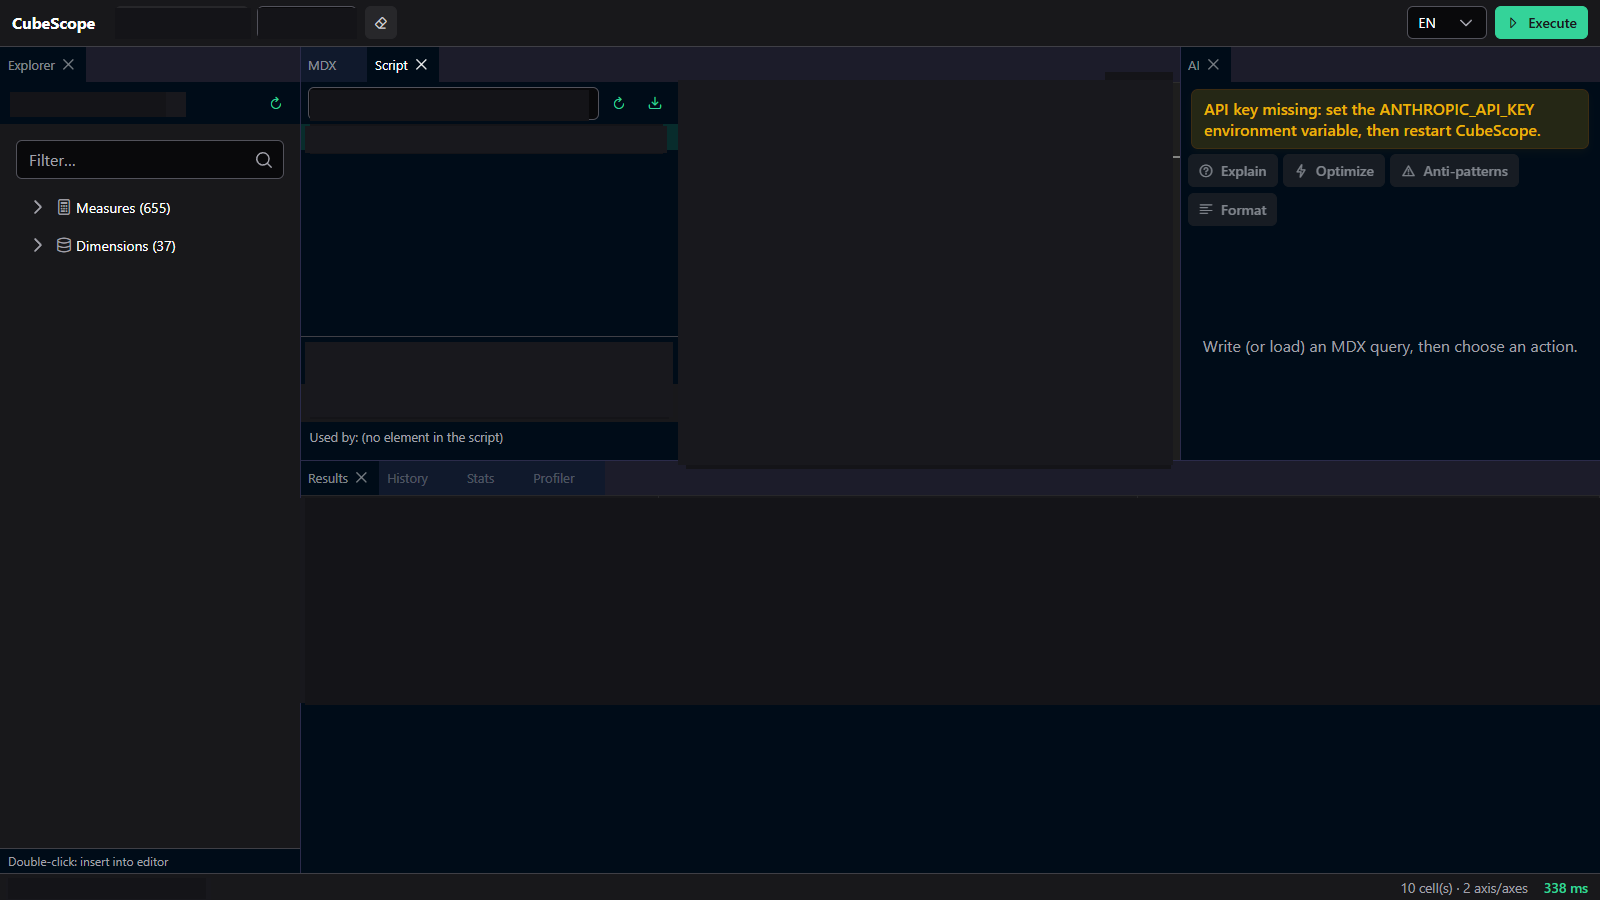
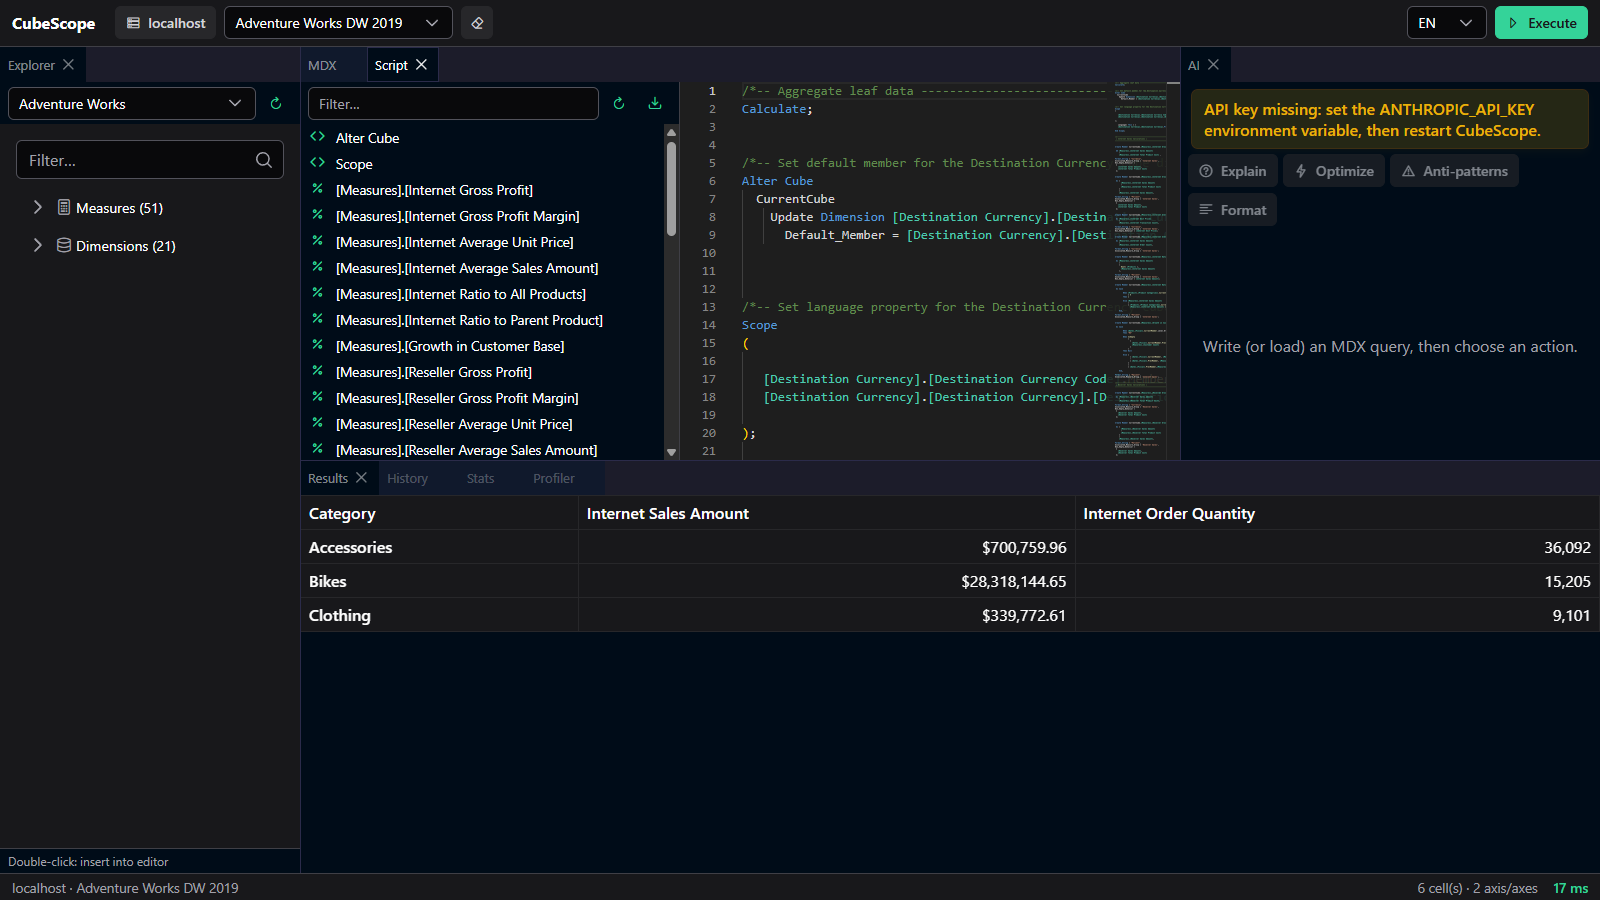
feat: cube captions follow the UI language + clean demo GIF & screenshots
- Connection sends the UI locale (Locale Identifier): FR UI -> French cube
  captions, EN UI -> English, when the cube has translations. Errors and
  perfmon labels still follow the server OS locale.
- README: animated demo GIF (Adventure Works, neutral public sample) as hero.
- Replace the placeholder-redacted screenshots with clean Adventure Works
  captures; drop the connect-dialog shot.

diff --git a/CubeScope.Web/src/api.ts b/CubeScope.Web/src/api.ts
@@ -1,5 +1,5 @@
 // Client API CubeScope — miroir des DTO du serveur (System.Text.Json → camelCase).
-import { t } from './i18n'
+import { t, currentLocale } from './i18n'
 
 export interface GridColumn {
   field: string
@@ -78,7 +78,7 @@ async function request<T>(method: string, url: string, body?: unknown, signal?: 
 
 export const api = {
   connect: (server: string) =>
-    request<{ server: string; catalogs: string[] }>('POST', '/api/connection', { server }),
+    request<{ server: string; catalogs: string[] }>('POST', '/api/connection', { server, lang: currentLocale() }),
   setCatalog: (catalog: string) => request<void>('PUT', '/api/connection/catalog', { catalog }),
   recent: () => request<RecentConnection[]>('GET', '/api/connection/recent'),
   query: (mdx: string, signal: AbortSignal) => request<QueryResult>('POST', '/api/query', { mdx }, signal),

diff --git a/CubeScope.Web/src/i18n.ts b/CubeScope.Web/src/i18n.ts
@@ -1,6 +1,8 @@
 // i18n (vue-i18n) — FR par défaut (usage quotidien de l'auteur), EN pour la communauté.
-// Choix persisté en localStorage. Ce qui vient du serveur SSAS (erreurs, libellés perfmon)
-// reste dans la langue de l'OS serveur (français) — hors de notre contrôle.
+// Choix persisté en localStorage. La langue est aussi envoyée au connect (Locale Identifier)
+// → les libellés du cube (mesures, membres) reviennent dans cette langue s'il a des
+// traductions. Restent dans la langue de l'OS serveur (hors contrôle) : erreurs SSAS et
+// libellés perfmon. Changer de langue APRÈS connexion ne re-traduit pas le cube (reconnecter).
 import { createI18n } from 'vue-i18n'
 import fr from './locales/fr'
 import en from './locales/en'

diff --git a/CubeScope.Core/Ssas/SsasSession.cs b/CubeScope.Core/Ssas/SsasSession.cs
@@ -19,8 +19,17 @@ public sealed class SsasSession : IDisposable
     /// <summary>SessionID SSAS de la connexion courante (corrélation avec la trace du profiler).</summary>
     public string? SessionId => _conn?.SessionID;
 
+    // Locale de la connexion = langue de l'UI → les libellés du cube (mesures, membres)
+    // reviennent dans cette langue quand le cube a des traductions. Défaut : locale système.
+    private static string LocaleClause(string? lang) => lang switch
+    {
+        "en" => "Locale Identifier=1033;",
+        "fr" => "Locale Identifier=1036;",
+        _ => "",
+    };
+
     /// <summary>Ouvre (ou remplace) la connexion et retourne la liste des catalogues.</summary>
-    public async Task<IReadOnlyList<string>> ConnectAsync(string server, CancellationToken ct = default)
+    public async Task<IReadOnlyList<string>> ConnectAsync(string server, string? lang = null, CancellationToken ct = default)
     {
         await _gate.WaitAsync(ct);
         try
@@ -28,7 +37,7 @@ public sealed class SsasSession : IDisposable
             return await Task.Run(() =>
             {
                 _conn?.Dispose();
-                _conn = new AdomdConnection($"Data Source={server};Integrated Security=SSPI;");
+                _conn = new AdomdConnection($"Data Source={server};Integrated Security=SSPI;{LocaleClause(lang)}");
                 _conn.Open();
                 Server = server;
                 Catalog = null;

diff --git a/CubeScope.Server/Program.cs b/CubeScope.Server/Program.cs
@@ -54,7 +54,7 @@ var api = app.MapGroup("/api");
 api.MapPost("/connection", async (ConnectRequest req, SsasSession session, StateStore store,
     PerfmonService perfmon, ProfilerService profiler, CancellationToken ct) =>
 {
-    var catalogs = await session.ConnectAsync(req.Server, ct);
+    var catalogs = await session.ConnectAsync(req.Server, req.Lang, ct);
     store.AddRecentConnection(req.Server, null);
     // Découverte perfmon + création de trace en arrière-plan — jamais bloquantes, dégradables
     _ = Task.Run(() => perfmon.Initialize(req.Server));
@@ -243,7 +243,7 @@ app.Lifetime.ApplicationStarted.Register(() =>
 
 app.Run();
 
-internal sealed record ConnectRequest(string Server);
+internal sealed record ConnectRequest(string Server, string? Lang);
 internal sealed record CatalogRequest(string Catalog);
 internal sealed record QueryRequest(string Mdx);
 internal sealed record AiRequest(string Mdx, string? Lang);

diff --git a/README.md b/README.md
@@ -7,7 +7,7 @@ CubeScope is the spiritual successor to MDX Studio: a single self-contained
 executable that launches a local web app in your browser. No install, no server
 component to deploy, no cloud.
 
-![Query and results grid](docs/screenshots/02-query.png)
+![CubeScope in action](docs/screenshots/demo.gif)
 
 > **Scope.** CubeScope targets **SSAS Multidimensional** only. Tabular, Power BI
 > and DAX are permanently out of scope by design — there is no multi-engine
@@ -82,8 +82,6 @@ then:
 It starts Kestrel on a free localhost port and opens your default browser.
 Connect to your SSAS server (a hostname, or `host:port` for a named instance on
 a fixed port), pick a catalog, and start writing MDX.
-
-![Connection dialog](docs/screenshots/01-connect.png)
 
 ---
 
